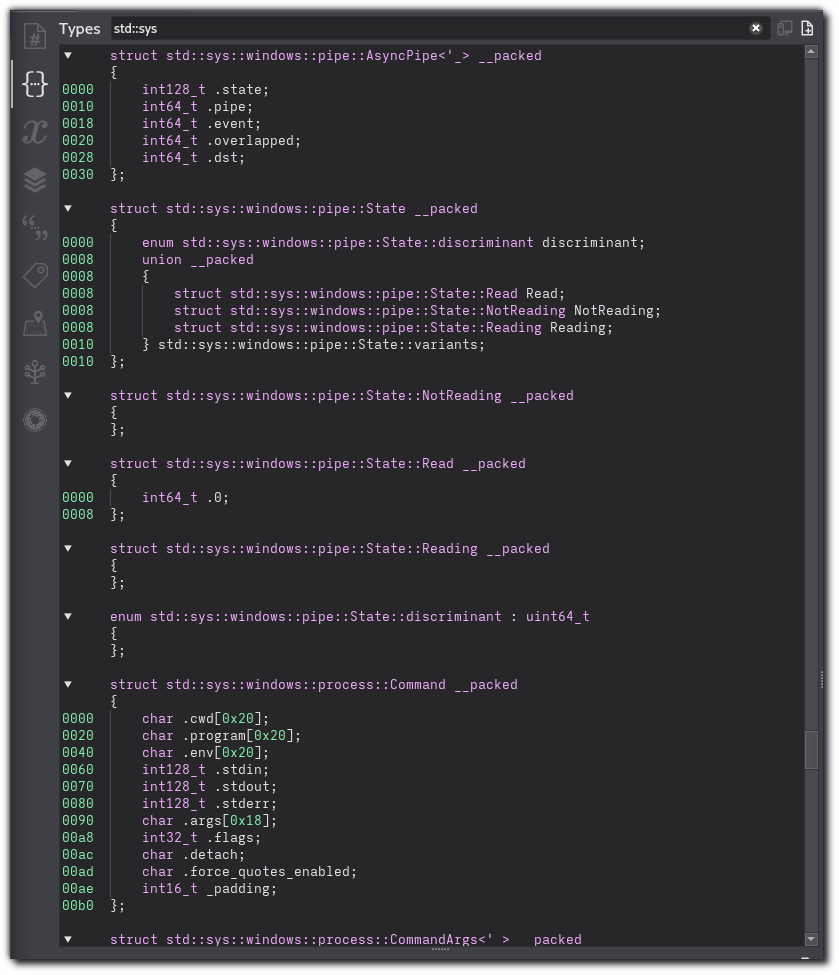
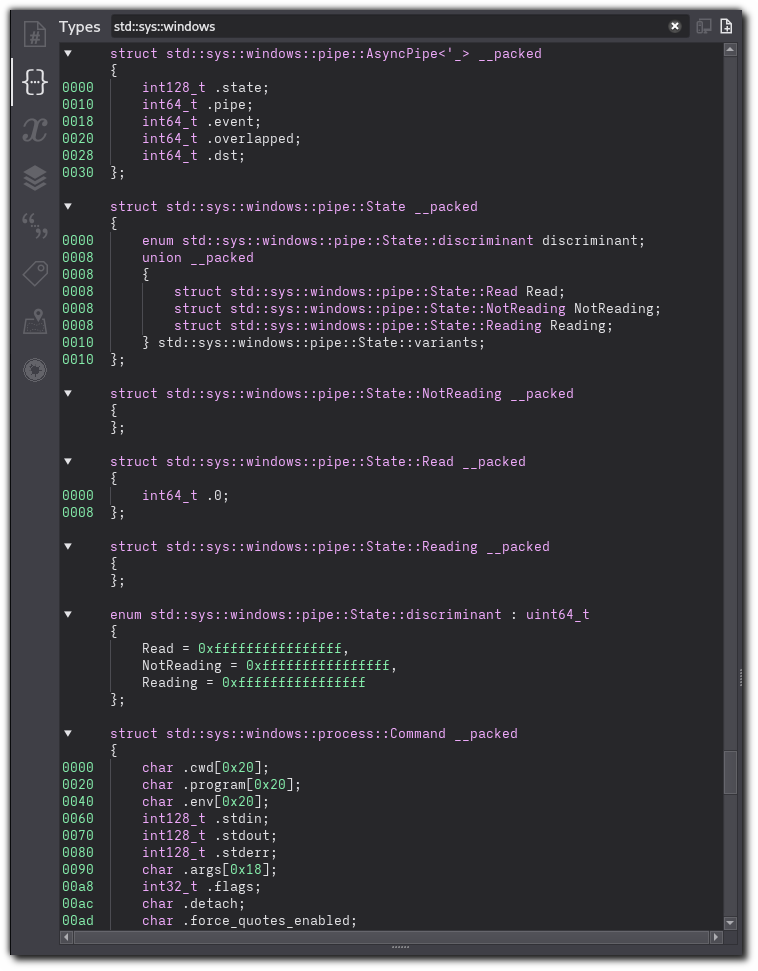
feat: Add discriminant entries to corresponding created enum type

diff --git a/binja_plugin/type_import.py b/binja_plugin/type_import.py
@@ -1,4 +1,4 @@
-from typing import List
+from typing import List, Optional
 
 from binaryninja.binaryview import BinaryView
 from binaryninja.log import Logger
@@ -6,6 +6,7 @@ from binaryninja.types import (
     ArrayType,
     EnumerationBuilder,
     IntegerType,
+    QualifiedName,
     StructureBuilder,
     StructureType,
     StructureVariant,
@@ -66,13 +67,19 @@ def _create_bn_types_for_rust_type(bv: BinaryView, rust_type: RustType):
 
     bn_struct = StructureBuilder.create(packed=True)
     rust_field_types = [type(field) for field in rust_type.fields]
-    if Variant in rust_field_types:  # The Rust type is a sum type, i.e. a Rust enum
-        # TODO: Handle the case where there is only variant, and no discriminant!
-        # This shows up in cases like (ironically)
-        # repr(C) unions like SocketAddrCRepr: https://github.com/rust-lang/rust/blob/8a778ca1e35e4a8df95c00d800100d95e63e7722/library/std/src/sys_common/net.rs#L725
+
+    # The Rust type is a sum type, i.e. a Rust enum.
+    if Variant in rust_field_types:
+        # TODO: Handle repr(C) unions correctly;
+        # it seems these are not being created with the correct size.
+        # For example, see SocketAddrCRepr:
+        # https://github.com/rust-lang/rust/blob/8a778ca1e35e4a8df95c00d800100d95e63e7722/library/std/src/sys_common/net.rs#L725
         bn_variants_union = StructureBuilder.create(
             packed=True, type=StructureVariant.UnionStructureType
         )
+
+        # It is possible to have a sum type with variants, but with no discriminant.
+        bn_discriminant_enum_name: Optional[str] = None
         for rust_type_field in rust_type.fields:
             if isinstance(rust_type_field, Discriminant):
                 bn_discriminant_enum_name = f"{rust_type.type_name}::discriminant"
@@ -86,7 +93,8 @@ def _create_bn_types_for_rust_type(bv: BinaryView, rust_type: RustType):
                 )
                 bn_struct.append(
                     type=Type.named_type_from_registered_type(
-                        bv, bn_discriminant_enum_name
+                        view=bv,
+                        name=bn_discriminant_enum_name,
                     ),
                     name="discriminant",
                 )
@@ -102,16 +110,33 @@ def _create_bn_types_for_rust_type(bv: BinaryView, rust_type: RustType):
                 )
                 bn_variants_union.append(
                     type=Type.named_type_from_registered_type(
-                        bv, bn_variant_struct_name
+                        view=bv,
+                        name=bn_variant_struct_name,
                     ),
                     name=rust_type_field.variant_name,
                 )
+                if bn_discriminant_enum_name is not None:
+                    # Modify the existing discriminant enum type
+                    # to add an entry for this variant.
+                    with Type.builder(
+                        bv=bv,
+                        name=QualifiedName(bn_discriminant_enum_name),
+                    ) as bn_discriminant_enum:
+                        # The discriminant value used to represent each variant
+                        # does not necessarily match the ordering of those variants
+                        # in the type layout information, i.e. the first variant
+                        # is not necessarily discriminant value 0, etc.
+                        # The information emitted by rustc's `print-type-sizes` flag
+                        # also does not include the discriminant value for each variant.
+                        # Therefore, all variants are assigned a discriminant value of -1.
+                        bn_discriminant_enum.append(rust_type_field.variant_name, -1)
 
         bn_struct.append(
             type=bn_variants_union,
             name=f"{rust_type.type_name}::variants",
         )
 
+    # The Rust type is a product type, i.e. a Rust struct.
     else:
         for rust_type_field in rust_type.fields:
             if isinstance(rust_type_field, Field):

diff --git a/README.md b/README.md
@@ -67,6 +67,7 @@ struct core::num::dec2flt::decimal::Decimal __packed
     char .truncated;
     char _padding[0x3];
 };
+
 struct std::result::Result<std::sys::windows::fs::ReadDir, std::io::Error> __packed
 {
     union __packed
@@ -85,6 +86,7 @@ struct std::result::Result<std::sys::windows::fs::ReadDir, std::io::Error>::Ok _
 {
     char .0[0x268];
 };
+
 struct std::sys::windows::fs::ReadDir __packed
 {
     int64_t .handle;
@@ -92,6 +94,7 @@ struct std::sys::windows::fs::ReadDir __packed
     char .first[0x254];
     int32_t _padding;
 };
+
 struct std::option::Option<std::result::Result<std::fs::DirEntry, std::io::Error>> __packed
 {
     enum std::option::Option<std::result::Result<std::fs::DirEntry, std::io::Error>>::discriminant discriminant;
@@ -113,6 +116,8 @@ struct std::option::Option<std::result::Result<std::fs::DirEntry, std::io::Error
 
 enum std::option::Option<std::result::Result<std::fs::DirEntry, std::io::Error>>::discriminant : uint64_t
 {
+    Some = 0xffffffffffffffff,
+    None = 0xffffffffffffffff
 };
 ```
 
@@ -122,6 +127,7 @@ There are some caveats to using this:
 - The layout of data types is not stable, and can change between compilations!
 - Only the nightly builds of rustc supports the `print-type-sizes` flag.
 - Binary Ninja's support for working with unions in the decompilation is currently quite poor (see [Vector35/binaryninja-api#1013](https://github.com/Vector35/binaryninja-api/issues/1013), [Vector35/binaryninja-api#4218](https://github.com/Vector35/binaryninja-api/issues/4218)). This may make it difficult to work with the generated `variants` unions, such as `std::option::Option<std::result::Result<std::fs::DirEntry, std::io::Error>>::variants` in the example above.
+- When importing sum types (i.e. Rust enums), the discriminant value used to represent each variant in the sum type does not necessarily match the ordering of those variant in the type layout information, i.e. the first variant is not necessarily discriminant value 0, etc. The information emitted by rustc's `print-type-sizes` flag also does not include the discriminant value for each variant. Therefore, all variants are assigned a discriminant value of -1. To determine the actual determinant value, it is up to the user to reverse the code where the sum type is used.
 
 In the future it would be nice to:
 - Add scripts / plugins to import the type information into IDA and Ghidra.
